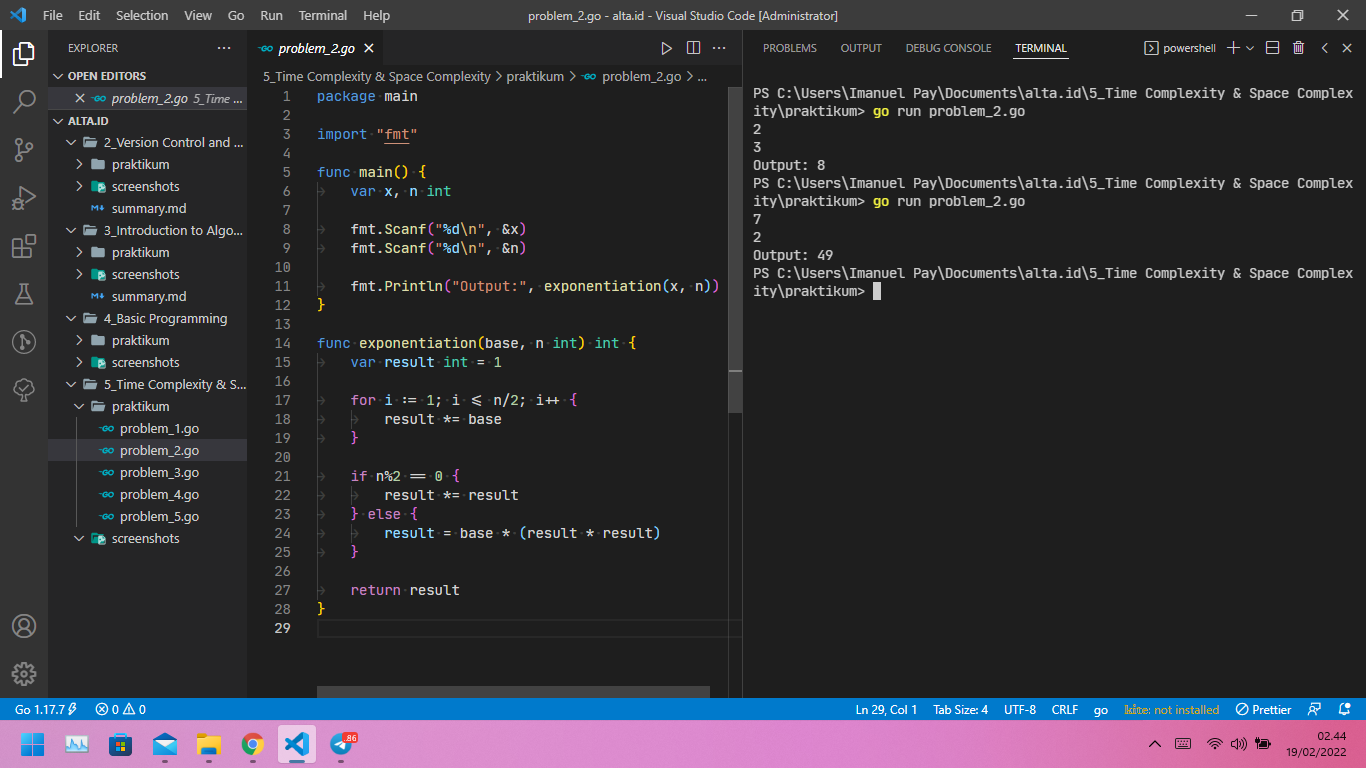
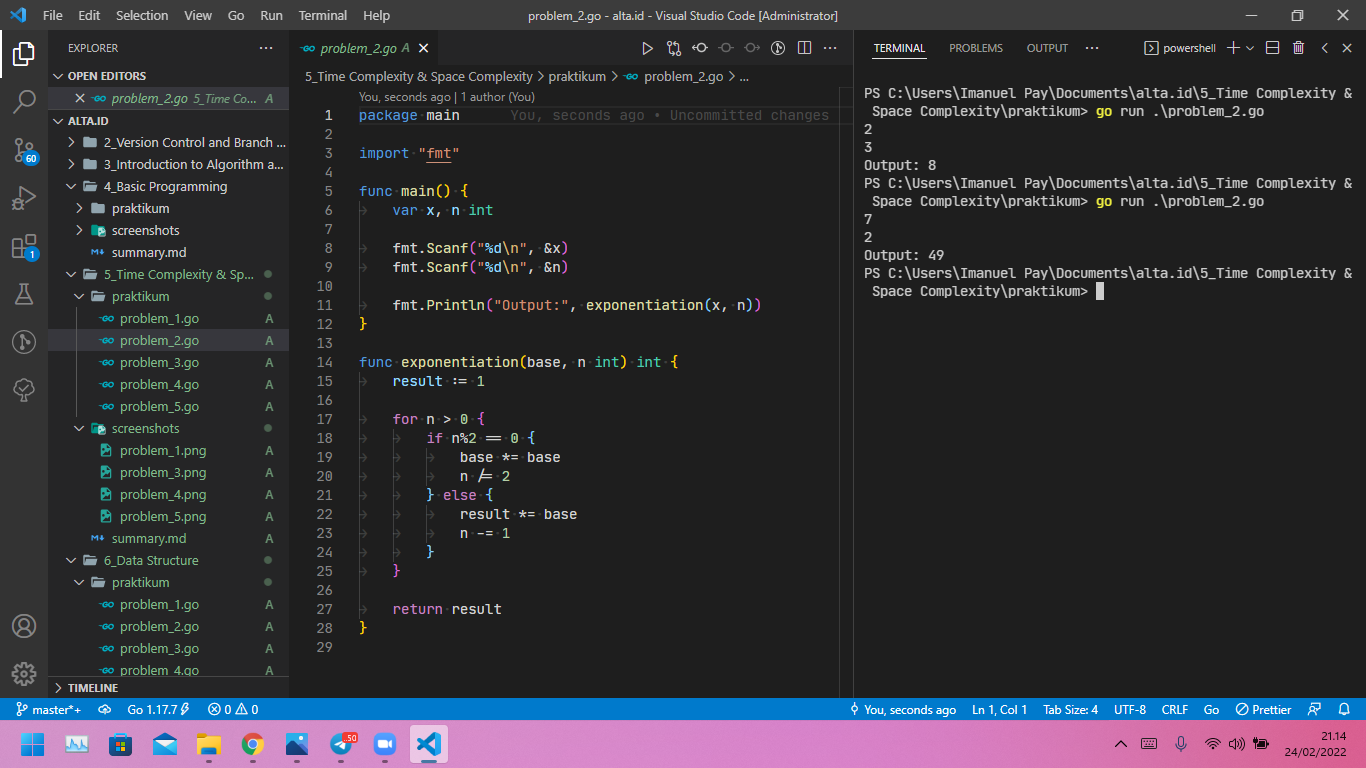
fix: exponentiation o(log n)

diff --git a/5_Time Complexity & Space Complexity/praktikum/problem_2.go b/5_Time Complexity & Space Complexity/praktikum/problem_2.go
@@ -12,16 +12,16 @@ func main() {
 }
 
 func exponentiation(base, n int) int {
-	var result int = 1
+	result := 1
 
-	for i := 1; i <= n/2; i++ {
-		result *= base
-	}
-
-	if n%2 == 0 {
-		result *= result
-	} else {
-		result = base * (result * result)
+	for n > 0 {
+		if n%2 == 0 {
+			base *= base
+			n /= 2
+		} else {
+			result *= base
+			n -= 1
+		}
 	}
 
 	return result

diff --git a/6_Data Structure/praktikum/problem_2.go b/6_Data Structure/praktikum/problem_2.go
@@ -13,14 +13,14 @@ func main() {
 func pow(x, n int) int {
 	var result int = 1
 
-	for i := 1; i <= n/2; i++ {
-		result *= x
-	}
-
-	if n%2 == 0 {
-		result *= result
-	} else {
-		result = x * (result * result)
+	for n > 0 {
+		if n%2 == 0 {
+			x *= x
+			n /= 2
+		} else {
+			result *= x
+			n -= 1
+		}
 	}
 
 	return result
